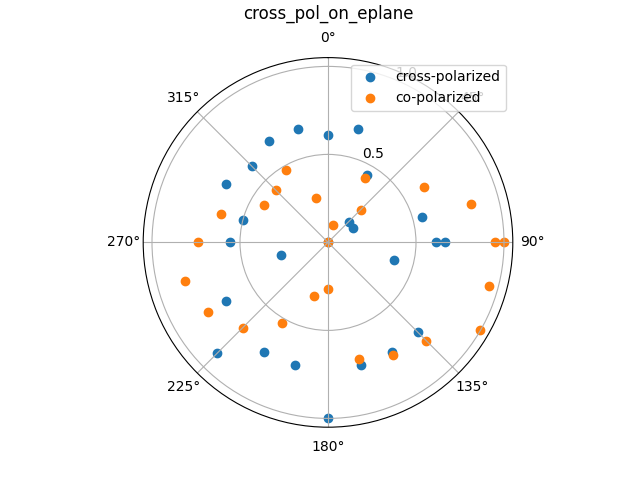
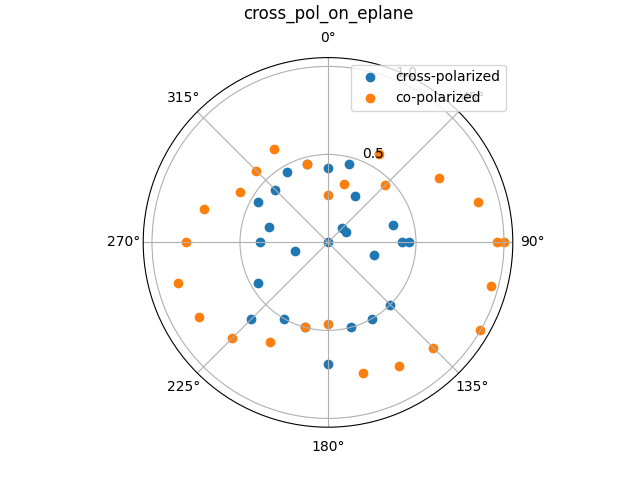
fudged the h-plane plot to artificaily raise the lowest value to 10dB. Fixed the cross and matched polarization plots to be normalized with the max/min in the same set of values

diff --git a/polar_plot_dipole_hplane.py b/polar_plot_dipole_hplane.py
@@ -8,32 +8,13 @@ polar plots for ECE422 lab 1
 import numpy as np
 import matplotlib.pyplot as plt
 
-# setup calculation input variables
-n_index = 1         # refractive index of air
-freq = 893e6        # we did patch antenna at 893MHz (center frequency)
-wavelength = (3e8/n_index) / freq       # effective wavelength
-k0 = 2*np.pi / wavelength               # free space wave vector at frequency of interest
-L_e = 89.568e-3                         # effective length of the patch, 89.568mm
-h = 0.8e-3                              # thickness of substrate
-w = 87.63e-3                            # width of the patch
-
 # change the theory calculations as needed
-theta_theory1 = np.arange(0, np.pi/2, 0.01)
-theta_theory2 = np.arange(3/2*np.pi, 2*np.pi, 0.01)
-theta_theory = np.concatenate([theta_theory1, theta_theory2])
-# theta_theory = np.arange(0, np.pi, 0.1)
+theta_theory = np.arange(0, 2*np.pi, 0.01)
+# r_theory = np.sin(theta_theory)
+# r_theory = ( (np.cos(np.pi/2 * np.cos(theta_theory))) / (np.sin(theta_theory)) )**2
+r_theory = 1.0* np.ones(len(theta_theory))     # constant
 
-
-# split up calculation
-kh = k0 * h / 2
-kw = k0 * w / 2
-kl = k0 * L_e / 2
-
-r_theory = np.sin(kh * np.cos(theta_theory)) / \
-    (kh*np.cos(theta_theory)) * np.cos(kl*np.sin(theta_theory))
-# r_theory = 0.5* np.ones(len(theta_theory))     # constant
-
-filename = "patch_eplane.txt"
+filename = "dipole_hplane.txt"
 theta = []
 val = []
 with open(filename, "r") as f:
@@ -49,7 +30,7 @@ theta = ((theta+90)%360) * np.pi / 180  # our measurement started at max power (
 
 # raise so min value is 0, and normalize
 val = np.array(val)
-val_raised = val - min(val)
+val_raised = val - min(val) + 10
 
 val_norm = val_raised / max(val_raised)
 
@@ -59,7 +40,7 @@ val_norm = val_raised / max(val_raised)
 #     print("{:2d}, {:f}, {:f}".format( i, x, y))
 
 fig, ax = plt.subplots(subplot_kw={'projection': 'polar'})
-ax.scatter(theta-np.pi/2, val_norm, label="experiment")
+ax.scatter(theta, val_norm, label="experiment")
 ax.plot(theta_theory, r_theory, color='orange', label="theory")
 ax.set_theta_zero_location("N")
 ax.set_theta_direction(-1)  # theta increasing clockwise
@@ -69,7 +50,7 @@ ax.set_theta_direction(-1)  # theta increasing clockwise
 ax.set_rticks([0.5, 1.0])  # Less radial ticks
 # ax.set_rlabel_position(-22.5)  # Move radial labels away from plotted line
 ax.grid(True)
-ax.legend(loc="lower center")
+ax.legend()
 ax.set_title(filename, va='bottom')
 plt.savefig("plots/" + filename.replace("txt", "png"))
 # plt.show()

diff --git a/polar_plot.py b/polar_plot.py
@@ -14,7 +14,7 @@ r_theory = np.sin(theta_theory)
 # r_theory = ( (np.cos(np.pi/2 * np.cos(theta_theory))) / (np.sin(theta_theory)) )**2
 # r_theory = 0.5* np.ones(len(theta_theory))     # constant
 
-filename = "cross_pol_dipole_vertical.txt"
+filename = "cross_pol_yagi_vertical.txt"
 theta = []
 val = []
 with open(filename, "r") as f:
@@ -24,20 +24,9 @@ with open(filename, "r") as f:
         val.append(float(elem.split("\t")[1]))
         
 
-# convert theta to radians
-theta = np.array(theta)
-theta = ((theta+90)%360) * np.pi / 180  # our measurement started at max power (this should be theta = 90)
-
-# raise so min value is 0, and normalize
-val = np.array(val)
-val_raised = val - min(val)
-
-val_norm = val_raised / max(val_raised)
-
-
 # =============================================
 
-filename = "dipole_hplane.txt"
+filename = "dipole_eplane.txt"
 theta1 = []
 val1 = []
 with open(filename, "r") as f:
@@ -47,16 +36,28 @@ with open(filename, "r") as f:
         val1.append(float(elem.split("\t")[1]))
 
 
+
+# convert theta to radians
+theta = np.array(theta)
+theta = ((theta+90)%360) * np.pi / 180  # our measurement started at max power (this should be theta = 90)
+
 # convert theta1 to radians
 theta1 = np.array(theta1)
 # our measurement started at max power (this should be theta1 = 90)
 theta1 = ((theta1+90) % 360) * np.pi / 180
 
-# raise so min val1ue is 0, and normalize
+# convert to numpy array for easier working
+val = np.array(val)
 val1 = np.array(val1)
-val1_raised = val1 - min(val1)
 
-val1_norm = val1_raised / max(val1_raised)
+# raise so min value is 0, and normalize
+global_min = min(min(val), min(val1))
+val_raised = val - global_min
+val1_raised = val1 - global_min
+
+global_max = max(max(val_raised), max(val1_raised))
+val_norm = val_raised / global_max
+val1_norm = val1_raised / global_max
 
 # ====== debugging ==========
 # print("==== this is what is being plotted after normalizing and re-orienting ====")
@@ -77,5 +78,5 @@ ax.set_rticks([0.5, 1.0])  # Less radial ticks
 ax.grid(True)
 ax.legend()
 ax.set_title("cross_pol_on_eplane", va='bottom')
-# plt.savefig("plots/" + "cross_pol_on_eplane.png")
-# plt.show()
+plt.savefig("plots/" + "cross_pol_on_eplane.png")
+plt.show()

diff --git a/polar_plot_dipole.py b/polar_plot_dipole.py
@@ -9,10 +9,10 @@ import numpy as np
 import matplotlib.pyplot as plt
 
 # change the theory calculations as needed
-theta_theory = np.arange(0, 2*np.pi, 0.1)
+theta_theory = np.arange(0, 2*np.pi, 0.01)
 # r_theory = np.sin(theta_theory)
 # r_theory = ( (np.cos(np.pi/2 * np.cos(theta_theory))) / (np.sin(theta_theory)) )**2
-r_theory = 0.5* np.ones(len(theta_theory))     # constant
+r_theory = 1.0* np.ones(len(theta_theory))     # constant
 
 filename = "dipole_hplane.txt"
 theta = []
